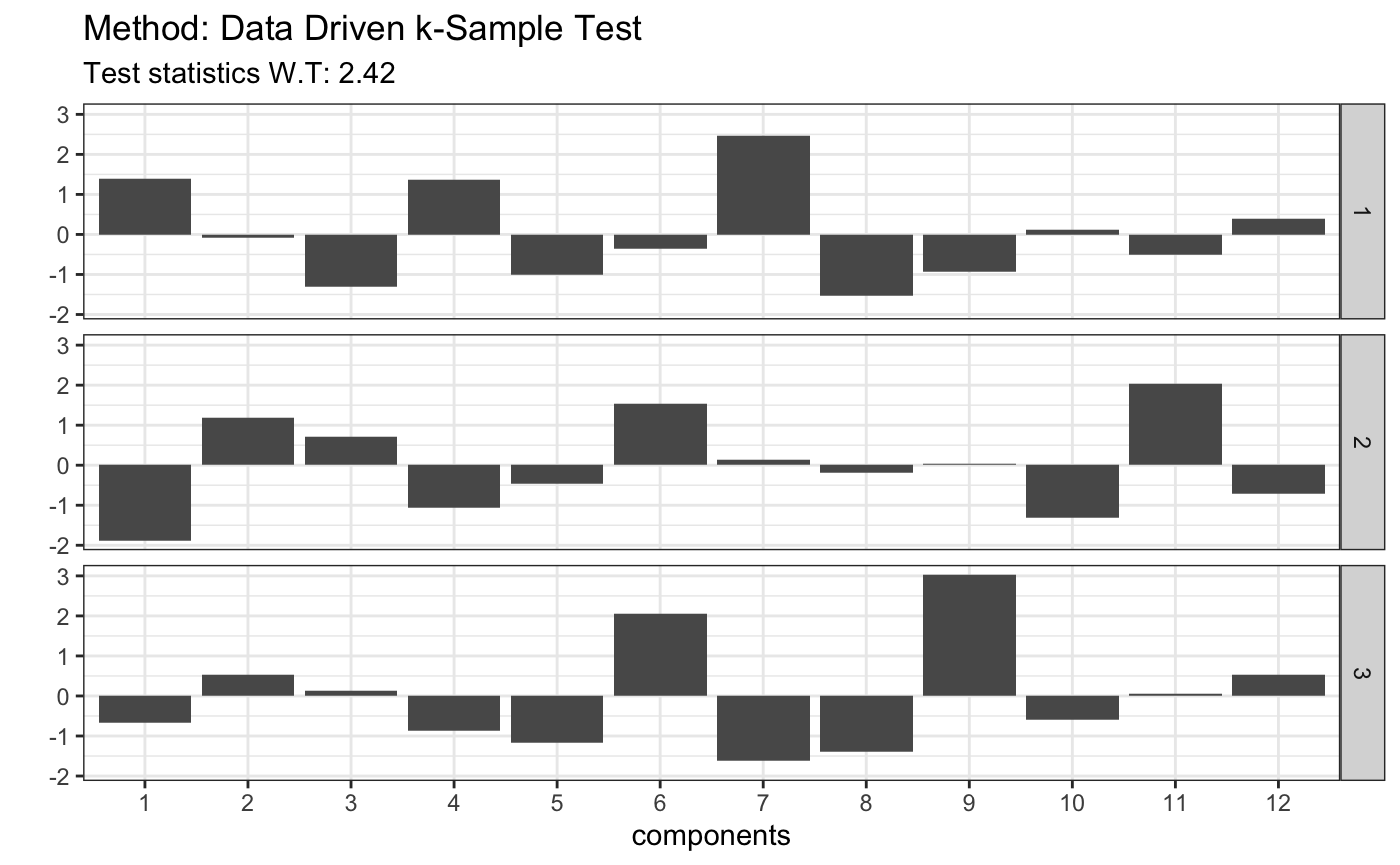
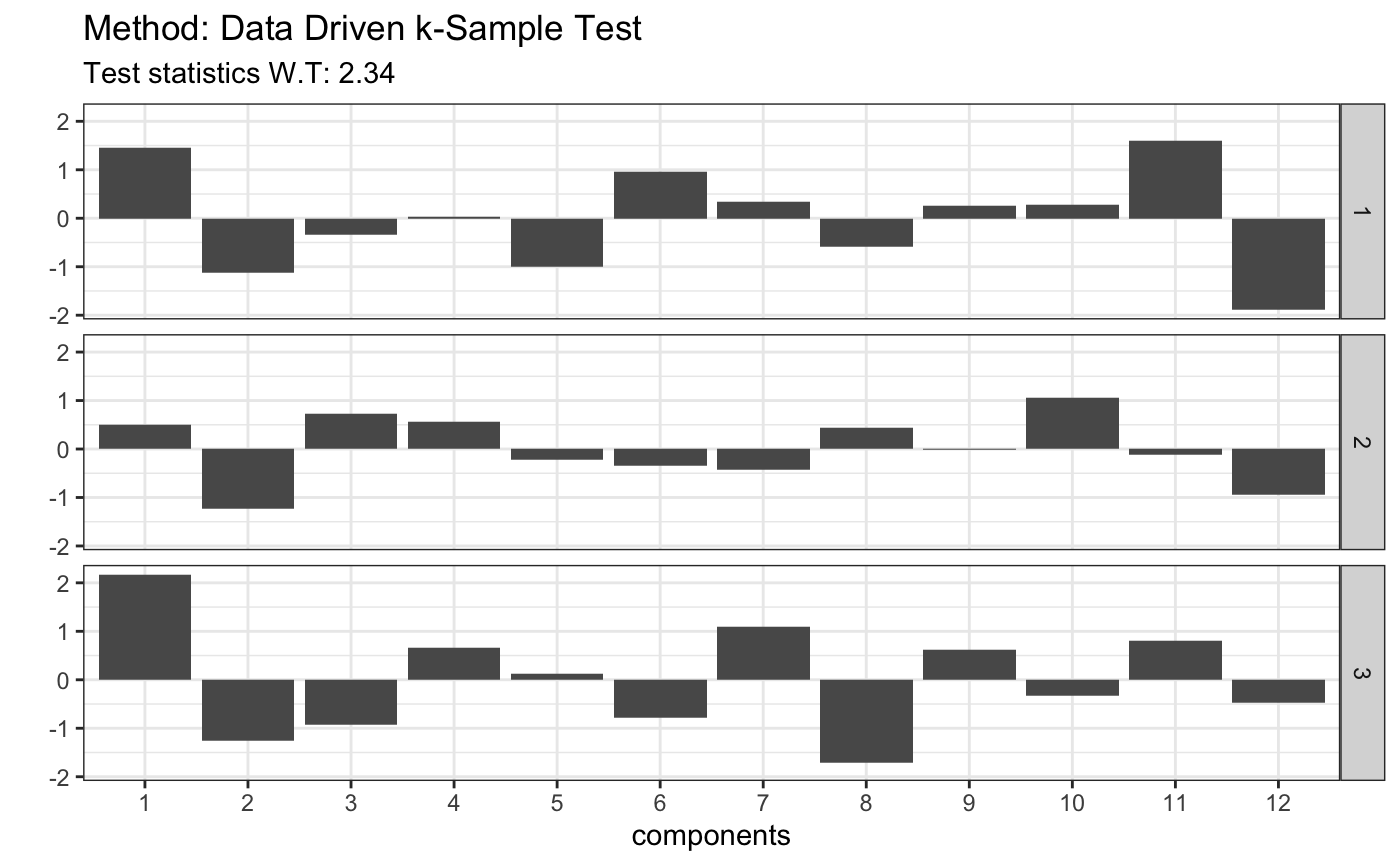
updated website

diff --git a/docs/articles/examples_all.html b/docs/articles/examples_all.html
@@ -125,7 +125,7 @@
 ##  Data Driven Smooth Test for Uniformity
 ## 
 ## data:  z,   base: ddst.base.legendre   c: 2.4
-## WT = 0.003658, n. coord = 1, p-value = 0.957</code></pre>
+## WT = 1.1993, n. coord = 1, p-value = 0.302</code></pre>
 <div class="sourceCode" id="cb6"><pre class="sourceCode r"><code class="sourceCode r"><a class="sourceLine" id="cb6-1" data-line-number="1"><span class="co"># for known fixed alternative, here N(10,16)</span></a>
 <a class="sourceLine" id="cb6-2" data-line-number="2">z &lt;-<span class="st"> </span><span class="kw"><a href="https://rdrr.io/r/stats/Normal.html">pnorm</a></span>(z, <span class="dv">10</span>, <span class="dv">16</span>)</a>
 <a class="sourceLine" id="cb6-3" data-line-number="3"><span class="kw"><a href="../reference/ddst.uniform.test.html">ddst.uniform.test</a></span>(z, <span class="dt">compute.p =</span> <span class="ot">TRUE</span>)</a></code></pre></div>
@@ -133,7 +133,7 @@
 ##  Data Driven Smooth Test for Uniformity
 ## 
 ## data:  z,   base: ddst.base.legendre   c: 2.4
-## WT = 521.27, n. coord = 10, p-value &lt; 2.2e-16</code></pre>
+## WT = 519.22, n. coord = 10, p-value &lt; 2.2e-16</code></pre>
 <div class="sourceCode" id="cb8"><pre class="sourceCode r"><code class="sourceCode r"><a class="sourceLine" id="cb8-1" data-line-number="1"><span class="co"># when H0 is false</span></a>
 <a class="sourceLine" id="cb8-2" data-line-number="2">z &lt;-<span class="st"> </span><span class="kw"><a href="https://rdrr.io/r/stats/Beta.html">rbeta</a></span>(<span class="dv">80</span>,<span class="dv">4</span>,<span class="dv">2</span>)</a>
 <a class="sourceLine" id="cb8-3" data-line-number="3"><span class="kw"><a href="../reference/ddst.uniform.test.html">ddst.uniform.test</a></span>(z, <span class="dt">compute.p =</span> <span class="ot">TRUE</span>)</a></code></pre></div>
@@ -141,7 +141,7 @@
 ##  Data Driven Smooth Test for Uniformity
 ## 
 ## data:  z,   base: ddst.base.legendre   c: 2.4
-## WT = 47.486, n. coord = 3, p-value &lt; 2.2e-16</code></pre>
+## WT = 42.288, n. coord = 3, p-value &lt; 2.2e-16</code></pre>
 <div class="sourceCode" id="cb10"><pre class="sourceCode r"><code class="sourceCode r"><a class="sourceLine" id="cb10-1" data-line-number="1"><span class="co"># just p-value</span></a>
 <a class="sourceLine" id="cb10-2" data-line-number="2"><span class="kw"><a href="../reference/ddst.uniform.test.html">ddst.uniform.test</a></span>(z, <span class="dt">compute.p =</span> <span class="ot">TRUE</span>)<span class="op">$</span>p.value</a></code></pre></div>
 <pre><code>## [1] 0</code></pre>
@@ -165,7 +165,7 @@
 ##  Data Driven Smooth Test for Expotentiality
 ## 
 ## data:  z,   base: ddst.base.legendre,   c: 100
-## WT* = 0.27994, n. coord = 1, p-value = 0.602</code></pre>
+## WT* = 0.050758, n. coord = 1, p-value = 0.822</code></pre>
 <div class="sourceCode" id="cb16"><pre class="sourceCode r"><code class="sourceCode r"><a class="sourceLine" id="cb16-1" data-line-number="1"><span class="co"># when H0 is false</span></a>
 <a class="sourceLine" id="cb16-2" data-line-number="2">z &lt;-<span class="st"> </span><span class="kw"><a href="https://rdrr.io/r/stats/Chisquare.html">rchisq</a></span>(<span class="dv">80</span>, <span class="dv">4</span>)</a>
 <a class="sourceLine" id="cb16-3" data-line-number="3"><span class="kw"><a href="../reference/ddst.exp.test.html">ddst.exp.test</a></span>(z, <span class="dt">compute.p =</span> <span class="ot">TRUE</span>)</a></code></pre></div>
@@ -173,7 +173,7 @@
 ##  Data Driven Smooth Test for Expotentiality
 ## 
 ## data:  z,   base: ddst.base.legendre,   c: 100
-## WT* = 8.2533, n. coord = 1, p-value = 0.022</code></pre>
+## WT* = 10.743, n. coord = 1, p-value = 0.017</code></pre>
 </div>
 <div id="data-driven-smooth-tests-for-normality" class="section level2">
 <h2 class="hasAnchor">
@@ -197,7 +197,7 @@
 ##  Data Driven Smooth Test for Normality
 ## 
 ## data:  z,   base: ddst.base.legendre,   c: 100
-## WT* = 0.11946, n. coord = 1, p-value = 0.7418</code></pre>
+## WT* = 0.99742, n. coord = 1, p-value = 0.3356</code></pre>
 <div class="sourceCode" id="cb22"><pre class="sourceCode r"><code class="sourceCode r"><a class="sourceLine" id="cb22-1" data-line-number="1"><span class="co"># when H0 is false</span></a>
 <a class="sourceLine" id="cb22-2" data-line-number="2">z =<span class="st"> </span><span class="kw"><a href="https://rdrr.io/r/stats/Exponential.html">rexp</a></span>(<span class="dv">80</span>, <span class="dv">4</span>)</a>
 <a class="sourceLine" id="cb22-3" data-line-number="3"><span class="kw"><a href="../reference/ddst.normbounded.test.html">ddst.normbounded.test</a></span>(z, <span class="dt">B =</span> <span class="dv">5000</span>, <span class="dt">compute.p =</span> <span class="ot">TRUE</span>)</a></code></pre></div>
@@ -205,7 +205,7 @@
 ##  Data Driven Smooth Test for Normality
 ## 
 ## data:  z,   base: ddst.base.legendre,   c: 100
-## WT* = 129.39, n. coord = 5, p-value = 3.256e-10</code></pre>
+## WT* = 135.36, n. coord = 5, p-value = 1.598e-10</code></pre>
 </div>
 <div id="the-case-of-unbounded-basis-functions" class="section level3">
 <h3 class="hasAnchor">
@@ -223,7 +223,7 @@
 ##  Data Driven Smooth Test for Extreme Values
 ## 
 ## data:  z,   base: ddst.base.legendre,   c: 100
-## WT* = 1.9073, n. coord = 1, p-value = 0.591</code></pre>
+## WT* = 1.9073, n. coord = 1, p-value = 0.606</code></pre>
 <div class="sourceCode" id="cb26"><pre class="sourceCode r"><code class="sourceCode r"><a class="sourceLine" id="cb26-1" data-line-number="1"><span class="kw"><a href="https://rdrr.io/r/base/library.html">library</a></span>(evd)</a>
 <a class="sourceLine" id="cb26-2" data-line-number="2">z &lt;-<span class="st"> </span><span class="op">-</span><span class="kw"><a href="https://rdrr.io/pkg/evd/man/gumbel.html">qgumbel</a></span>(<span class="kw"><a href="https://rdrr.io/r/stats/Uniform.html">runif</a></span>(<span class="dv">100</span>), <span class="dv">-1</span>, <span class="dv">1</span>)</a>
 <a class="sourceLine" id="cb26-3" data-line-number="3"><span class="kw"><a href="../reference/ddst.extr.test.html">ddst.extr.test</a></span>(z, <span class="dt">compute.p =</span> <span class="ot">TRUE</span>)</a></code></pre></div>
@@ -231,7 +231,7 @@
 ##  Data Driven Smooth Test for Extreme Values
 ## 
 ## data:  z,   base: ddst.base.legendre,   c: 100
-## WT* = 0.0028683, n. coord = 1, p-value = 1</code></pre>
+## WT* = 0.061303, n. coord = 1, p-value = 1</code></pre>
 <div class="sourceCode" id="cb28"><pre class="sourceCode r"><code class="sourceCode r"><a class="sourceLine" id="cb28-1" data-line-number="1"><span class="co"># when H0 is false</span></a>
 <a class="sourceLine" id="cb28-2" data-line-number="2">z &lt;-<span class="st"> </span><span class="kw"><a href="https://rdrr.io/r/stats/Exponential.html">rexp</a></span>(<span class="dv">80</span>, <span class="dv">4</span>)</a>
 <a class="sourceLine" id="cb28-3" data-line-number="3"><span class="kw"><a href="../reference/ddst.extr.test.html">ddst.extr.test</a></span>(z, <span class="dt">compute.p =</span> <span class="ot">TRUE</span>)</a></code></pre></div>
@@ -239,7 +239,7 @@
 ##  Data Driven Smooth Test for Extreme Values
 ## 
 ## data:  z,   base: ddst.base.legendre,   c: 100
-## WT* = 1204300, n. coord = 5, p-value &lt; 2.2e-16</code></pre>
+## WT* = 73845, n. coord = 5, p-value &lt; 2.2e-16</code></pre>
 </div>
 </div>
 <div id="iii--nonparametric-data-driven-smooth-tests-for-comparing-distributions" class="section level1">
@@ -258,7 +258,7 @@
 ##  Data Driven k-Sample Test
 ## 
 ## data:  
-## W.T = 2.4178, l = NA</code></pre>
+## W.T = 2.3371, l = NA</code></pre>
 <div class="sourceCode" id="cb32"><pre class="sourceCode r"><code class="sourceCode r"><a class="sourceLine" id="cb32-1" data-line-number="1"><span class="kw"><a href="https://rdrr.io/r/graphics/plot.html">plot</a></span>(t)</a></code></pre></div>
 <p><img src="examples_all_files/figure-html/unnamed-chunk-7-1.png" width="700"></p>
 <div class="sourceCode" id="cb33"><pre class="sourceCode r"><code class="sourceCode r"><a class="sourceLine" id="cb33-1" data-line-number="1"><span class="co"># known fixed alternative</span></a>
@@ -272,7 +272,7 @@
 ##  Data Driven k-Sample Test
 ## 
 ## data:  
-## W.T = 170.27, l = NA</code></pre>
+## W.T = 218.12, l = NA</code></pre>
 <div class="sourceCode" id="cb35"><pre class="sourceCode r"><code class="sourceCode r"><a class="sourceLine" id="cb35-1" data-line-number="1"><span class="kw"><a href="https://rdrr.io/r/graphics/plot.html">plot</a></span>(t)</a></code></pre></div>
 <p><img src="examples_all_files/figure-html/unnamed-chunk-7-2.png" width="700"></p>
 </div>

diff --git a/docs/reference/ddst.normbounded.test.html b/docs/reference/ddst.normbounded.test.html
@@ -6,7 +6,7 @@
 <meta http-equiv="X-UA-Compatible" content="IE=edge">
 <meta name="viewport" content="width=device-width, initial-scale=1.0">
 
-<title>Data Driven Smooth Test for Normality — ddst.normbounded.test • ddst</title>
+<title>Data Driven Smooth Test for Normality - Bounded Basis Functions — ddst.normbounded.test • ddst</title>
 
 <!-- jquery -->
 <script src="https://code.jquery.com/jquery-3.1.0.min.js" integrity="sha384-nrOSfDHtoPMzJHjVTdCopGqIqeYETSXhZDFyniQ8ZHcVy08QesyHcnOUpMpqnmWq" crossorigin="anonymous"></script>
@@ -35,7 +35,7 @@
 
 
 
-<meta property="og:title" content="Data Driven Smooth Test for Normality — ddst.normbounded.test" />
+<meta property="og:title" content="Data Driven Smooth Test for Normality - Bounded Basis Functions — ddst.normbounded.test" />
 <meta property="og:description" content="Performs data driven smooth test for composite hypothesis of normality
 Null density is given by
 \(
@@ -129,7 +129,7 @@ For more details see: http://www.biecek.pl/R/ddst/description.pdf." />
 <div class="row">
   <div class="col-md-9 contents">
     <div class="page-header">
-    <h1>Data Driven Smooth Test for Normality</h1>
+    <h1>Data Driven Smooth Test for Normality - Bounded Basis Functions</h1>
     
     <div class="hidden name"><code>ddst.normbounded.test.Rd</code></div>
     </div>
@@ -206,13 +206,13 @@ or <code>ddst.base.cos</code> for cosine system, see package description</p></td
 <span class='no'>z</span> <span class='kw'>&lt;-</span> <span class='fu'><a href='https://rdrr.io/r/stats/Normal.html'>rnorm</a></span>(<span class='fl'>80</span>)
 <span class='no'>t</span> <span class='kw'>&lt;-</span> <span class='fu'>ddst.norm.test</span>(<span class='no'>z</span>, <span class='kw'>compute.p</span><span class='kw'>=</span><span class='fl'>TRUE</span>)</div><div class='output co'>#&gt; <span class='error'>Error in ddst.norm.test(z, compute.p = TRUE): could not find function "ddst.norm.test"</span></div><div class='input'><span class='no'>t</span></div><div class='output co'>#&gt; function (x) 
 #&gt; UseMethod("t")
-#&gt; &lt;bytecode: 0x7fc727c762a0&gt;
+#&gt; &lt;bytecode: 0x7fe8acc17ce8&gt;
 #&gt; &lt;environment: namespace:base&gt;</div><div class='input'><span class='fu'><a href='https://rdrr.io/r/graphics/plot.html'>plot</a></span>(<span class='no'>t</span>)</div><div class='input'>
 <span class='co'># H0 is false</span>
 <span class='no'>z</span> <span class='kw'>&lt;-</span> <span class='fu'><a href='https://rdrr.io/r/stats/Exponential.html'>rexp</a></span>(<span class='fl'>80</span>,<span class='fl'>4</span>)
 <span class='no'>t</span> <span class='kw'>&lt;-</span> <span class='fu'>ddst.norm.test</span>(<span class='no'>z</span>, <span class='kw'>B</span><span class='kw'>=</span><span class='fl'>5000</span>, <span class='kw'>compute.p</span><span class='kw'>=</span><span class='fl'>TRUE</span>)</div><div class='output co'>#&gt; <span class='error'>Error in ddst.norm.test(z, B = 5000, compute.p = TRUE): could not find function "ddst.norm.test"</span></div><div class='input'><span class='no'>t</span></div><div class='output co'>#&gt; function (x) 
 #&gt; UseMethod("t")
-#&gt; &lt;bytecode: 0x7fc727c762a0&gt;
+#&gt; &lt;bytecode: 0x7fe8acc17ce8&gt;
 #&gt; &lt;environment: namespace:base&gt;</div><div class='input'><span class='fu'><a href='https://rdrr.io/r/graphics/plot.html'>plot</a></span>(<span class='no'>t</span>)</div><div class='img'><img src='ddst.normbounded.test-1.png' alt='' width='700' height='433' /></div><div class='input'>
 <span class='co'># for Tephra data</span>
 <span class='no'>z</span> <span class='kw'>&lt;-</span> <span class='fu'><a href='https://rdrr.io/r/base/c.html'>c</a></span>(-<span class='fl'>1.748789</span>, -<span class='fl'>1.75753</span>, -<span class='fl'>1.740102</span>, -<span class='fl'>1.740102</span>, -<span class='fl'>1.731467</span>, -<span class='fl'>1.765523</span>,
@@ -227,7 +227,7 @@ or <code>ddst.base.cos</code> for cosine system, see package description</p></td
       -<span class='fl'>1.82613</span>, -<span class='fl'>1.826967</span>, -<span class='fl'>1.780025</span>, -<span class='fl'>1.684504</span>, -<span class='fl'>1.751168</span>)
 <span class='no'>t</span> <span class='kw'>&lt;-</span> <span class='fu'>ddst.norm.test</span>(<span class='no'>z</span>, <span class='kw'>compute.p</span><span class='kw'>=</span><span class='fl'>TRUE</span>)</div><div class='output co'>#&gt; <span class='error'>Error in ddst.norm.test(z, compute.p = TRUE): could not find function "ddst.norm.test"</span></div><div class='input'><span class='no'>t</span></div><div class='output co'>#&gt; function (x) 
 #&gt; UseMethod("t")
-#&gt; &lt;bytecode: 0x7fc727c762a0&gt;
+#&gt; &lt;bytecode: 0x7fe8acc17ce8&gt;
 #&gt; &lt;environment: namespace:base&gt;</div><div class='input'><span class='fu'><a href='https://rdrr.io/r/graphics/plot.html'>plot</a></span>(<span class='no'>t</span>)</div></pre>
   </div>
   <div class="col-md-3 hidden-xs hidden-sm" id="sidebar">

diff --git a/docs/reference/index.html b/docs/reference/index.html
@@ -157,7 +157,7 @@
         <td>
           <p><code><a href="ddst.normbounded.test.html">ddst.normbounded.test()</a></code> </p>
         </td>
-        <td><p>Data Driven Smooth Test for Normality</p></td>
+        <td><p>Data Driven Smooth Test for Normality - Bounded Basis Functions</p></td>
       </tr><tr>
         
         <td>
